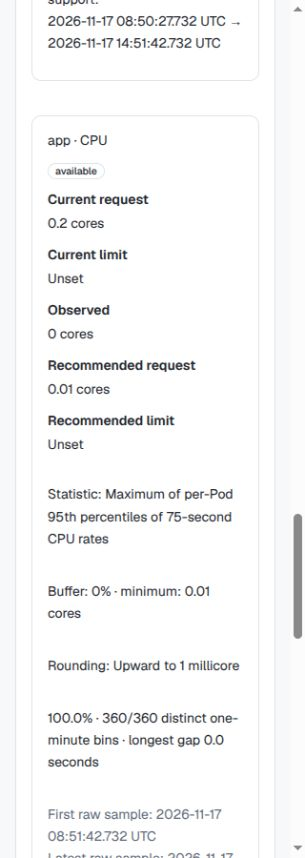
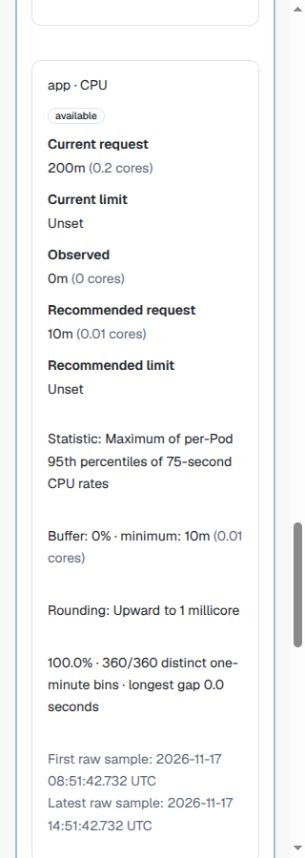
fix(recommendations): distinguish legacy history and display millicores

diff --git a/apps/web/src/features/recommendations/ReportDetails.tsx b/apps/web/src/features/recommendations/ReportDetails.tsx
@@ -9,11 +9,19 @@ type Value = Advice["current_request"];
 
 export const words = (value: string) => value.replaceAll("_", " ");
 export const time = (value?: string | null) => value ? new Date(value).toISOString().replace("T", " ").replace(".000Z", " UTC").replace(/Z$/, " UTC") : "Not recorded";
+export const outcome = (report: Report) => report.schema_version === 1 ? "Legacy" : report.result_state ? words(report.result_state) : "Pending";
+
+function millicores(value: string) {
+  const [whole, fraction = ""] = value.split(".");
+  const integer = `${whole}${fraction.padEnd(3, "0").slice(0, 3)}`.replace(/^0+(?=\d)/, "");
+  const remainder = fraction.slice(3).replace(/0+$/, "");
+  return `${integer}${remainder ? `.${remainder}` : ""}`;
+}
 
 function Amount({ value }: { value?: Value | null }) {
   if (!value || value.kind === "unavailable") return <>Unavailable{value?.kind === "unavailable" && ` · ${words(value.reason)}`}</>;
   if (value.kind === "unset") return <>Unset</>;
-  if (value.unit === "cores") return <>{value.value} cores</>;
+  if (value.unit === "cores") return <>{millicores(value.value)}m <span className="muted">({value.value} cores)</span></>;
   return <>{(Number(value.value) / 1024 ** 2).toLocaleString(undefined, { maximumFractionDigits: 2 })} MiB <span className="muted">({value.value} bytes)</span></>;
 }
 
@@ -38,7 +46,7 @@ export function ReportDetails({ report, historyHref }: { report: Report; history
       {!identity && <p className="break-all">Workload record ID: {report.workload_id}</p>}
       <div className="foundation-actions">
         <Badge variant="outline">Job: {words(report.job_phase)}</Badge>
-        <Badge variant="outline">Stored outcome: {report.schema_version === 1 ? "Legacy" : report.result_state ? words(report.result_state) : "Pending"}</Badge>
+        <Badge variant="outline">Stored outcome: {outcome(report)}</Badge>
         <Badge variant="outline">Applicability: {report.applicability.state}</Badge>
       </div>
       <p>{report.reason}</p>

diff --git a/apps/web/src/features/recommendations/Reports.test.tsx b/apps/web/src/features/recommendations/Reports.test.tsx
@@ -80,7 +80,11 @@ afterEach(() => { cleanup(); cache.clear(); });
 it("renders mixed advice, zero, unset, excluded memory, envelope and stale applicability independently", async () => {
   mount({ report: reportId(99) });
   const cpu = await screen.findByRole("region", { name: "app cpu advice" });
-  expect(within(cpu).getByText("0 cores")).toBeTruthy();
+  expect(within(cpu).getByText("(0 cores)")).toBeTruthy();
+  expect(within(cpu).getByText("0m")).toBeTruthy();
+  expect(within(cpu).getByText("200m")).toBeTruthy();
+  expect(within(cpu).getByText("10m")).toBeTruthy();
+  expect(cpu.textContent).toContain("minimum: 10m");
   expect(within(cpu).getAllByText("Unset")).toHaveLength(2);
   expect(within(cpu).getByText(/360\/360 distinct/)).toBeTruthy();
   const memory = screen.getByRole("region", { name: "app memory advice" });
@@ -186,7 +190,18 @@ it("keeps empty and legacy histories readable without inventing versioned advice
   expect(await screen.findByText("Legacy report")).toBeTruthy();
   expect(screen.getByText(/not qualified versioned resource advice/)).toBeTruthy();
   expect(screen.getByText("Stored outcome: Legacy")).toBeTruthy();
+  const history = screen.getByRole("list", { name: "Reports on this history page" });
+  expect(within(history).getByRole("link").textContent).toContain("finished / Legacy");
+  expect(history.textContent).not.toMatch(/pending/i);
   expect((screen.getByRole("button", { name: /Export selected report/ }) as HTMLButtonElement).disabled).toBe(false);
+});
+
+it("displays fractional millicores without rounding a positive observation to zero", async () => {
+  records[0].result_v2!.resources![0].observed = { kind: "quantity", value: "0.00000000000000000000000000000000000001", unit: "cores" };
+  mount({ report: reportId(99) });
+  const cpu = await screen.findByRole("region", { name: "app cpu advice" });
+  expect(within(cpu).getByText("0.00000000000000000000000000000000001m")).toBeTruthy();
+  expect(within(cpu).queryByText("0m")).toBeNull();
 });
 
 

diff --git a/apps/web/src/features/recommendations/Reports.tsx b/apps/web/src/features/recommendations/Reports.tsx
@@ -7,7 +7,7 @@ import { Failure, Loading } from "@/app/Feedback";
 import { buildReportHash, type ReportRoute } from "@/app/routes";
 import { Button } from "@/components/ui/button";
 import { Label } from "@/components/ui/label";
-import { ReportDetails, time, words } from "./ReportDetails";
+import { ReportDetails, outcome, time, words } from "./ReportDetails";
 
 export function Reports({ canMutate, route = {} }: { canMutate: boolean; route?: ReportRoute }) {
   const cache = useQueryClient();
@@ -119,7 +119,7 @@ export function Reports({ canMutate, route = {} }: { canMutate: boolean; route?:
         <ul ref={historyList} className="foundation-stack report-history-list" aria-label="Reports on this history page">
           {reports.data.items.map(report => <li key={report.id}>
             <a href={buildReportHash({ ...route, report: report.id })} aria-label={`Open report ${report.id}: ${time(report.created_at)}`} aria-current={route.report === report.id ? "true" : undefined}>
-              {time(report.created_at)} · {report.input_identity ? `${report.input_identity.namespace}/${report.input_identity.name} · UID ${report.input_identity.uid}` : `workload ${report.workload_id}`} · {words(report.job_phase)} / {report.result_state ? words(report.result_state) : "pending"} · report {report.id.slice(0, 8)}
+              {time(report.created_at)} · {report.input_identity ? `${report.input_identity.namespace}/${report.input_identity.name} · UID ${report.input_identity.uid}` : `workload ${report.workload_id}`} · {words(report.job_phase)} / {outcome(report)} · report {report.id.slice(0, 8)}
             </a>
           </li>)}
         </ul>

diff --git a/docs/resource-reports.md b/docs/resource-reports.md
@@ -66,7 +66,8 @@ Read **Job**, **Stored outcome** and **Applicability** separately. An available
 stored result can now be stale, and a paused service does not erase saved reports.
 Each container has separate CPU and memory quantities, exclusions and coverage.
 Zero is a measured quantity; **Unset** is deliberate; **Unavailable** supplies no
-number. Memory shows MiB together with exact stored bytes. Expand per-Pod evidence
+number. CPU displays millicores together with exact stored cores, including
+positive sub-millicore observations. Memory shows MiB together with exact stored bytes. Expand per-Pod evidence
 for UID/lifetime, scrape gaps and restart coverage. Legacy results remain visibly
 unqualified preserved output.
 
